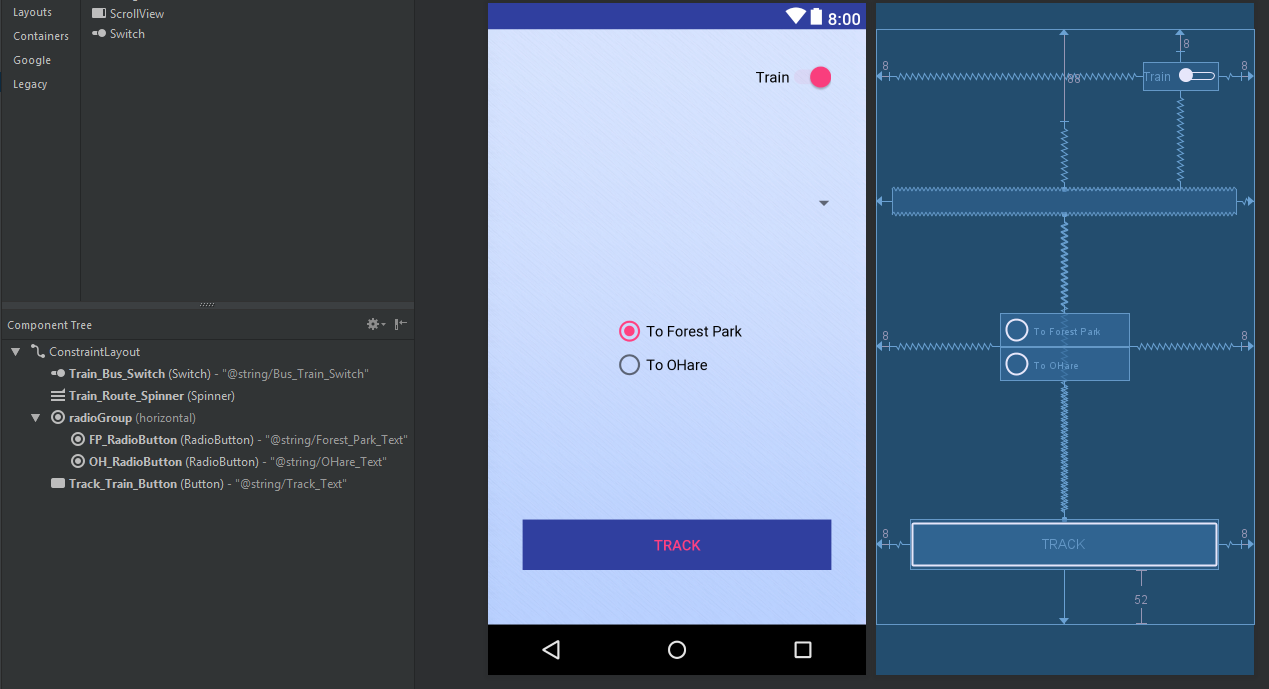
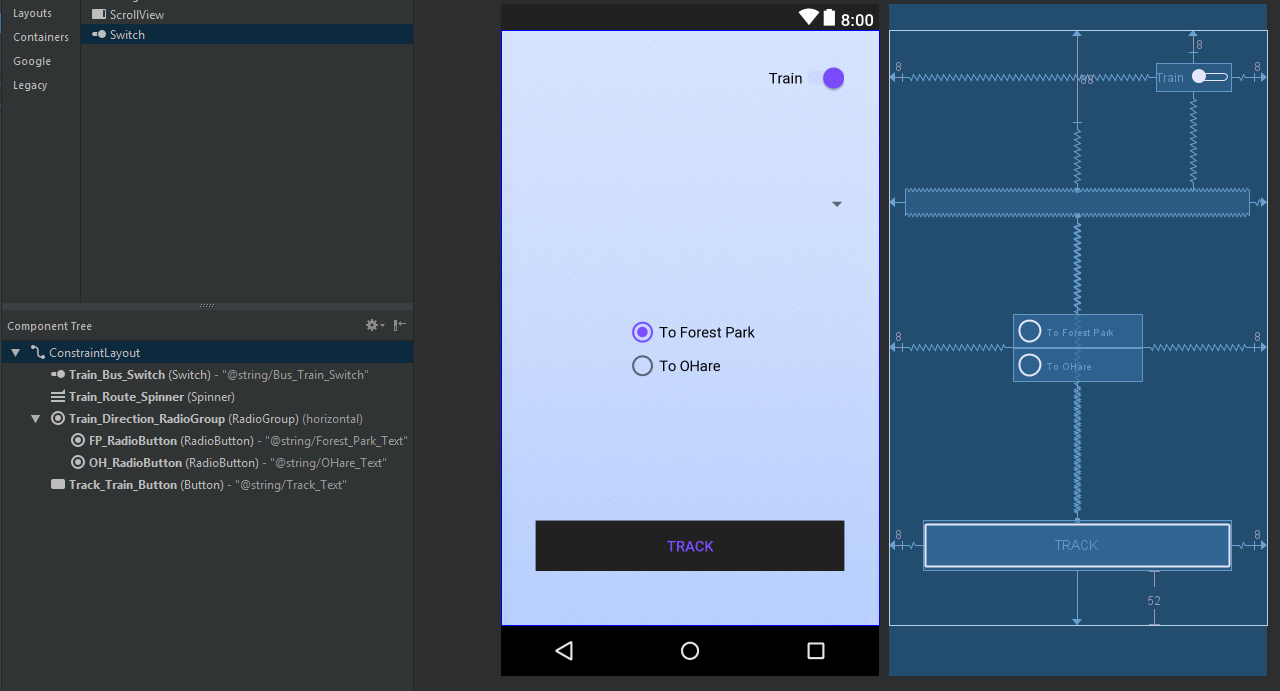
changed pallette, worked on train, fixed bus bug
Changed the color palette for the project
fixed train tracking code
fixed bus horizontal crashing bug

diff --git a/src/app/src/main/java/com/example/faraz/mytransitapp_android/trainActivity.java b/src/app/src/main/java/com/example/faraz/mytransitapp_android/trainActivity.java
@@ -11,6 +11,7 @@ import android.widget.AdapterView;
 import android.widget.ArrayAdapter;
 import android.widget.Button;
 import android.widget.CompoundButton;
+import android.widget.RadioGroup;
 import android.widget.Spinner;
 import android.widget.Switch;
 import android.widget.TextView;
@@ -18,22 +19,31 @@ import android.widget.Toast;
 
 import java.util.ArrayList;
 import java.util.Arrays;
+import java.util.HashMap;
+import java.util.Map;
 
 public class trainActivity extends AppCompatActivity {
-    // the track button
     private Button trackButton;
-
-    // the switch to bus switch
     private Switch trainToBusSwitch;
-
     private Spinner trainStopSpinner;
+    private RadioGroup radioButtonGroup;
 
     private String selectedStop;
+    private String ID;
+
+    // cta data objects
+    private CTA cta;
+    private Map<String, KeyValue> ctaDB;
 
     @Override
     protected void onCreate(Bundle savedInstanceState) {
         super.onCreate(savedInstanceState);
         setContentView(R.layout.train_activity);
+
+        cta = new CTA();
+        ctaDB = new HashMap<>();
+        ctaDB.put("FP", new KeyValue(createList(R.array.Blueline_Stops), createList(R.array.FP_IDs)));
+        ctaDB.put("OH", new KeyValue(createList(R.array.Blueline_Stops), createList(R.array.OH_IDs)));
 
         // Train Stop Spinner
         trainStopSpinner = findViewById(R.id.Train_Route_Spinner);
@@ -46,12 +56,34 @@ public class trainActivity extends AppCompatActivity {
                 selectedStop = parent.getItemAtPosition(position).toString();
                 if (selectedStop.equals("Select Stop"))
                     return;
-                Log.d("Transit", selectedStop);
+
+                int checkedRadioBtnID = radioButtonGroup.getCheckedRadioButtonId();
+                if (checkedRadioBtnID == R.id.FP_RadioButton) {
+                    ID = ctaDB.get("FP").find(selectedStop);
+                }
+                else {
+                    ID = ctaDB.get("OH").find(selectedStop);
+                }
             }
 
             @Override
-            public void onNothingSelected(AdapterView<?> parent) {
+            public void onNothingSelected(AdapterView<?> parent) {}
+        });
 
+        radioButtonGroup = findViewById(R.id.Train_Direction_RadioGroup);
+        radioButtonGroup.setOnCheckedChangeListener(new RadioGroup.OnCheckedChangeListener() {
+            @Override
+            public void onCheckedChanged(RadioGroup group, int checkedId) {
+                if (selectedStop == null || selectedStop.equals("Select Stop")) {
+                    return;
+                }
+
+                if (checkedId == R.id.FP_RadioButton) {
+                    ID = ctaDB.get("FP").find(selectedStop);
+                }
+                else {
+                    ID = ctaDB.get("OH").find(selectedStop);
+                }
             }
         });
 
@@ -60,8 +92,15 @@ public class trainActivity extends AppCompatActivity {
         trackButton.setOnClickListener(new View.OnClickListener() {
             @Override
             public void onClick(View v) {
-                Toast.makeText(trainActivity.this, "You clicked the button", Toast.LENGTH_SHORT).show();
+                if (ID == null) {
+                    Toast.makeText(trainActivity.this, "Oops! You missed something", Toast.LENGTH_SHORT).show();
+                    return;
+                }
+
+                Toast.makeText(trainActivity.this, "Tracking...", Toast.LENGTH_SHORT).show();
                 Intent myIntent = new Intent(trainActivity.this, DisplayResults.class);
+                myIntent.putExtra("stpid", ID);
+                myIntent.putExtra("rt", "Blue");
                 finish();
                 startActivity(myIntent);
             }

diff --git a/src/app/src/main/java/com/example/faraz/mytransitapp_android/MainActivity.java b/src/app/src/main/java/com/example/faraz/mytransitapp_android/MainActivity.java
@@ -37,7 +37,7 @@ public class MainActivity extends AppCompatActivity {
     private String routeNumber;
 
     // cta data objects
-    private final CTA cta = new CTA();
+    private CTA cta;
     private Map<String, KeyValue> ctaDB;
 
     @Override
@@ -49,12 +49,13 @@ public class MainActivity extends AppCompatActivity {
         // When the app has already been running and the screen was rotated, the bundle exists
         if (savedInstanceState != null) {
             selectedRoute = savedInstanceState.getString("route");
-            selectedDirection = savedInstanceState.getString("dir");
-            selectedStop = savedInstanceState.getString("stop");
+            selectedDirection = "Select Direction";
+            selectedStop = "Select Stop";
             ID = savedInstanceState.getString("stpid");
             routeNumber = savedInstanceState.getString("rtNum");
         }
 
+        cta = new CTA();
         ctaDB = new HashMap<>();
         ctaDB.put("008N", new KeyValue(createList(R.array.Eight_North_Stops), createList(R.array.Eight_North_IDs)));
         ctaDB.put("008S", new KeyValue(createList(R.array.Eight_South_Stops), createList(R.array.Eight_South_IDs)));
@@ -76,6 +77,10 @@ public class MainActivity extends AppCompatActivity {
             @Override
             public void onItemSelected(AdapterView<?> parent, View view, int position, long id) {
                 selectedStop = parent.getItemAtPosition(position).toString();
+
+                if (selectedRoute == null || selectedDirection == null || selectedStop == null)
+                    return;
+
                 if (selectedRoute.equals("Select Route") ||
                     selectedDirection.equals("Select Direction") ||
                     selectedStop.equals("Select Stop")) {
@@ -212,8 +217,6 @@ public class MainActivity extends AppCompatActivity {
         super.onSaveInstanceState(outState);
 
         outState.putString("route", selectedRoute);
-        outState.putString("dir", selectedDirection);
-        outState.putString("stop", selectedStop);
         outState.putString("stpid", ID);
         outState.putString("rtNum", routeNumber);
     }
